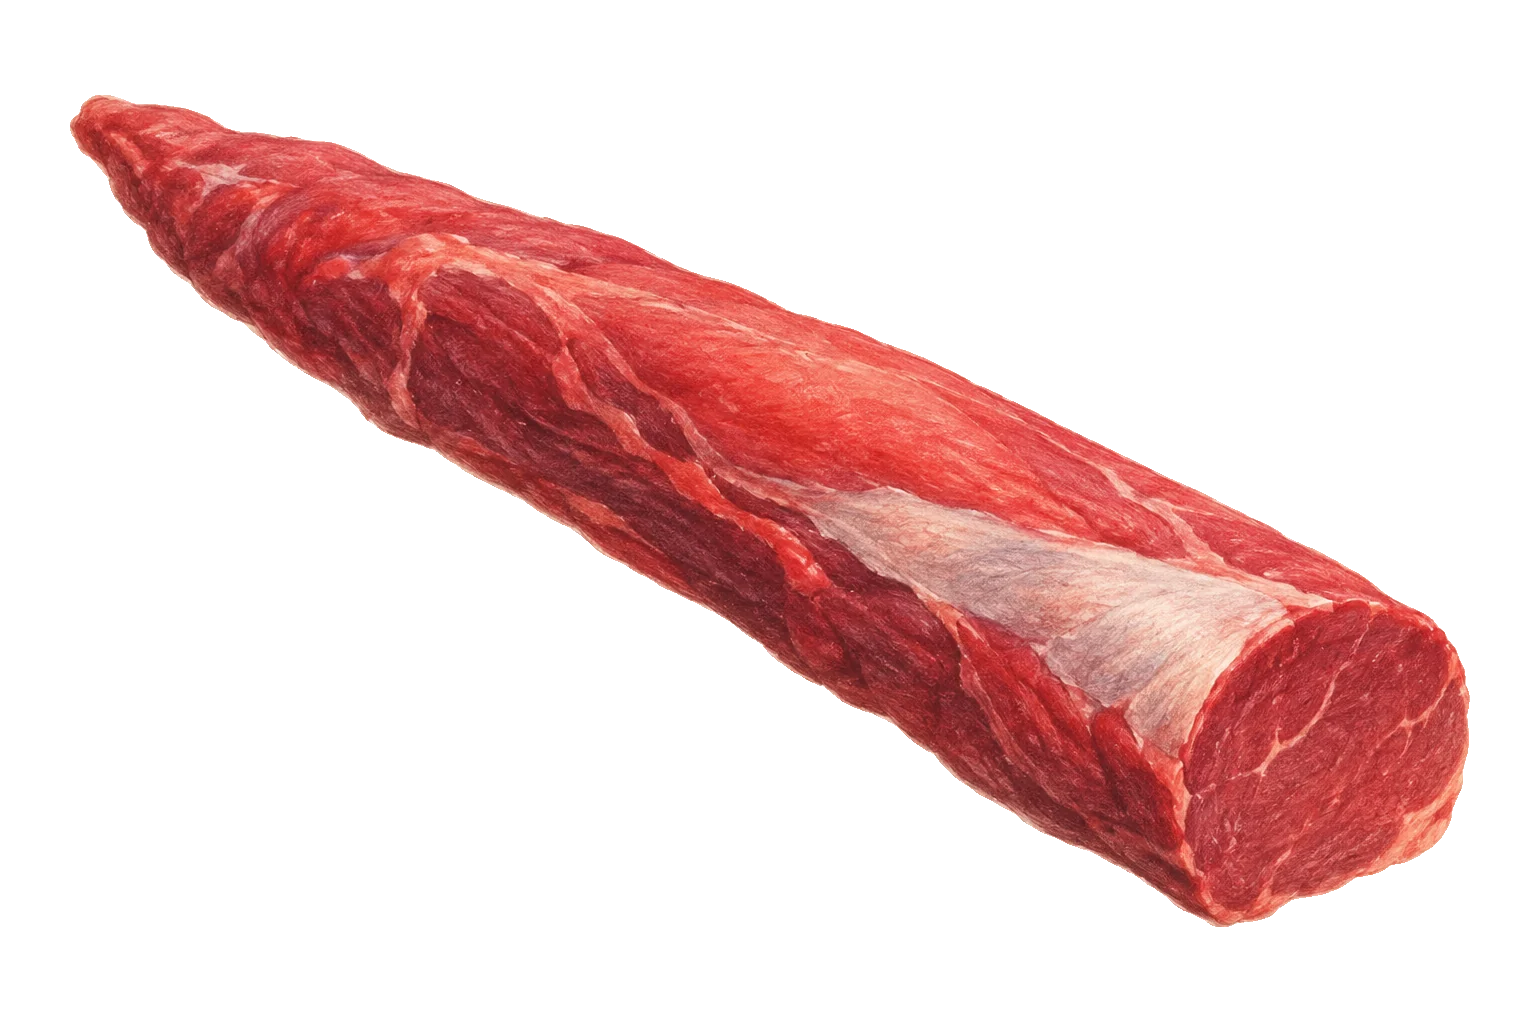
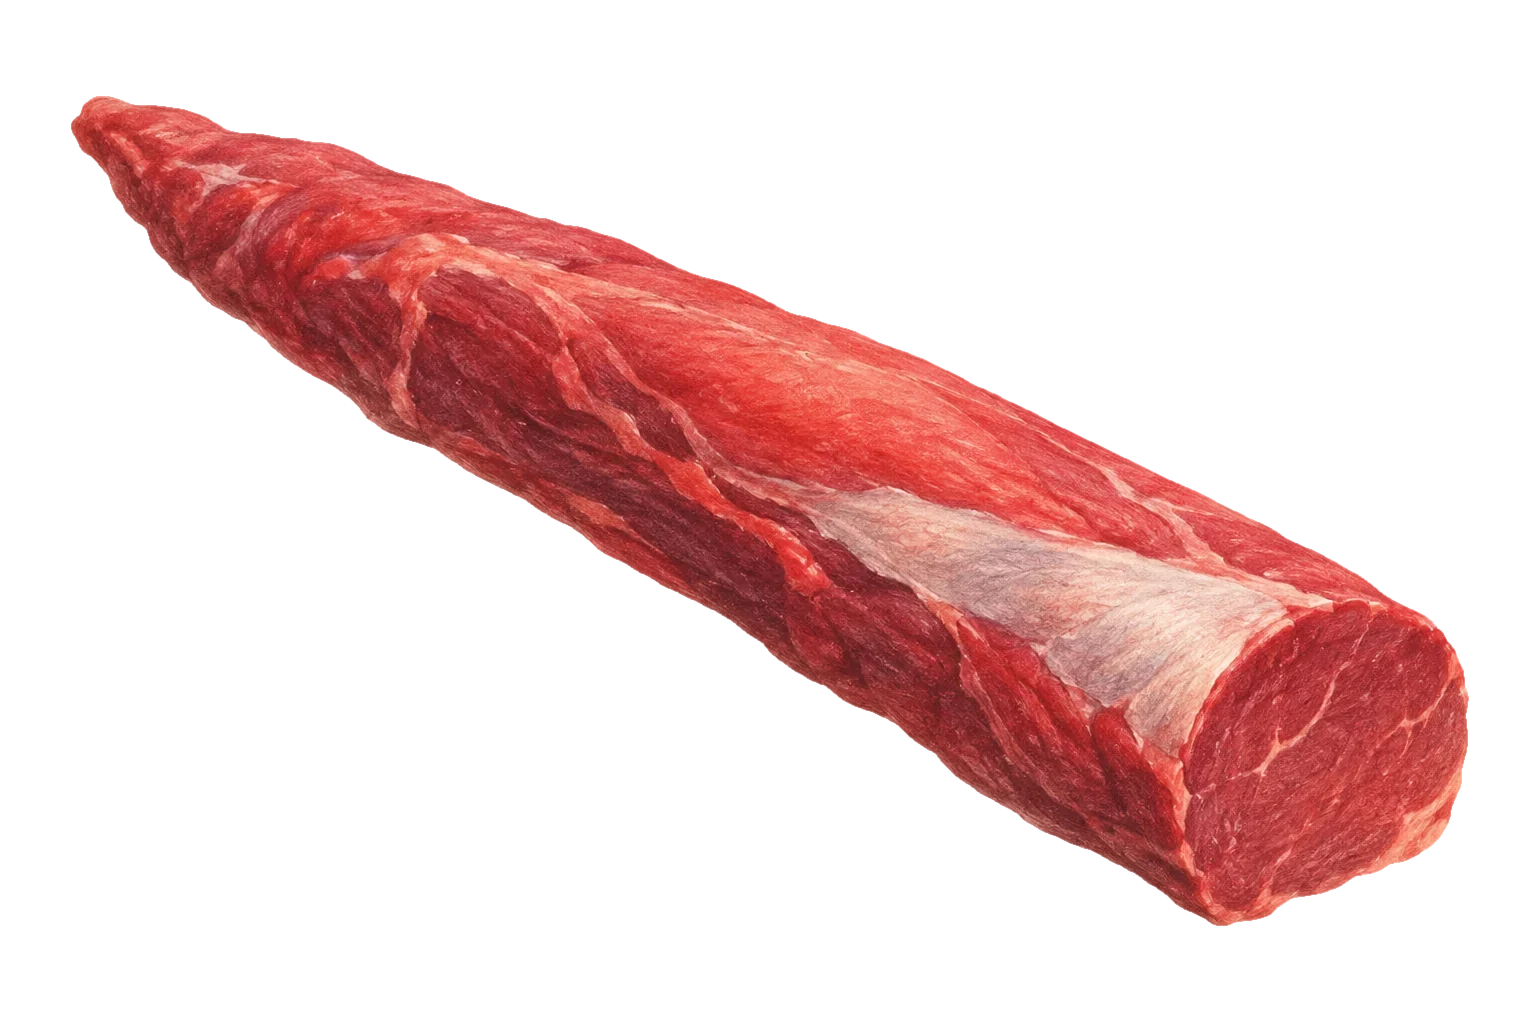
Hero cut-outs: remove the white background-removal fringe
tools/defringe-cutouts.py rebuilds the 8 hero cut-outs from untouched
originals kept in tools/cutouts-src/: edge pixels are re-coloured from the
piece's own interior, the hard alpha is trimmed ~1px and anti-aliased, and
transparent pixels carry edge colour so scaling never bleeds white. The same
files are used in Range, which gets the cleaner edges too.

Contact-shadow rim re-baked to the new edges, with the contour smoothed
sideways so edge jitter no longer shows as vertical streaks.

Claude-Session: https://claude.ai/code/session_01N851SR2USZLYHdGMc411em

Changed region(s): [[0.2812, 0.4375, 0.3125, 0.4688], [0.125, 0.2812, 0.1562, 0.3125]]

diff --git a/tools/defringe-cutouts.py b/tools/defringe-cutouts.py
@@ -1,0 +1,90 @@
+"""
+Remove the light halo that background removal left around the cut-outs.
+
+Reads the untouched originals from tools/cutouts-src/ and writes cleaned copies to public/img/:
+  1. Colour: pixels within a few px of the edge are re-coloured from the piece's own interior
+     (colours are grown outward from ~4px inside), strongest at the rim, fading inward.
+  2. Edge: the hard 0/255 alpha is pulled in by ~1px and given a soft anti-aliased edge, so the
+     last bright ring is gone and the piece sits on its contact shadow without a white outline.
+
+Run from the repo root:  python3 tools/defringe-cutouts.py   (needs numpy + Pillow)
+Then re-bake the hero shadows: python3 tools/bake-hero-shadows.py
+"""
+from pathlib import Path
+import numpy as np
+from PIL import Image, ImageFilter
+
+ROOT = Path(__file__).resolve().parent.parent
+SRC = ROOT / 'tools/cutouts-src'
+OUT = ROOT / 'public/img'
+
+FILES = ['lamb-rack', 'brisket', 't-bone', 'tenderloin', 'short-ribs', 'lemongrass', 'rosemary', 'peppercorns']
+# Re-colour weight by ring (1 = outermost px). Ring 1 is mostly cut away by the alpha trim anyway.
+RING_WEIGHT = [1.0, 0.85, 0.55, 0.25]
+CORE = len(RING_WEIGHT) + 1  # colours are trusted from this ring inward
+
+
+def erode(mask, k):
+    """Binary erosion by k px (square)."""
+    if k <= 0:
+        return mask
+    im = Image.fromarray((mask * 255).astype(np.uint8), 'L')
+    return np.asarray(im.filter(ImageFilter.MinFilter(2 * k + 1))) > 127
+
+
+def grow_colours(rgb, known, steps):
+    """Push known colours outward one px per step (3×3 average of known neighbours)."""
+    rgb = rgb.copy()
+    known = known.copy()
+    h, w = known.shape
+    for _ in range(steps):
+        acc = np.zeros_like(rgb)
+        cnt = np.zeros((h, w), np.float32)
+        for dy in (-1, 0, 1):
+            for dx in (-1, 0, 1):
+                k = np.roll(np.roll(known, dy, 0), dx, 1)
+                c = np.roll(np.roll(rgb, dy, 0), dx, 1)
+                acc += c * k[..., None]
+                cnt += k
+        new = (~known) & (cnt > 0)
+        rgb[new] = acc[new] / cnt[new][:, None]
+        known |= new
+    return rgb
+
+
+def defringe(name):
+    src = Image.open(SRC / f'{name}.webp').convert('RGBA')
+    a = np.asarray(src, np.float32)
+    rgb, mask = a[..., :3], a[..., 3] > 127
+
+    # Ring index of every opaque pixel (1 = outermost), capped at CORE.
+    ring = np.zeros(mask.shape, np.int32)
+    prev = mask
+    for k in range(1, CORE + 1):
+        inner = erode(mask, k)
+        ring[prev & ~inner] = k
+        prev = inner
+    ring[prev] = CORE + 1
+
+    core = ring > CORE
+    filled = grow_colours(np.where(core[..., None], rgb, 0), core, CORE + 6)
+
+    w = np.zeros(mask.shape, np.float32)
+    for i, wt in enumerate(RING_WEIGHT, start=1):
+        w[ring == i] = wt
+    out_rgb = rgb * (1 - w[..., None]) + filled * w[..., None]
+    out_rgb[~mask] = filled[~mask]  # transparent px carry edge colour too, so scaling never bleeds white
+
+    # Alpha: trim ~1px and anti-alias the new edge.
+    trimmed = Image.fromarray((erode(mask, 1) * 255).astype(np.uint8), 'L')
+    alpha = np.asarray(trimmed.filter(ImageFilter.GaussianBlur(0.8)), np.float32)
+    alpha = np.clip((alpha - 64) * (255 / 191), 0, 255)  # keep the core fully opaque, fade only the rim
+
+    out = np.dstack([np.clip(out_rgb, 0, 255), alpha]).astype(np.uint8)
+    Image.fromarray(out, 'RGBA').save(OUT / f'{name}.webp', 'WEBP', quality=86, method=6, exact=True)
+    print(f'{name:12s} ok')
+
+
+if __name__ == '__main__':
+    for f in FILES:
+        defringe(f)

diff --git a/tools/bake-hero-shadows.py b/tools/bake-hero-shadows.py
@@ -91,10 +91,14 @@ def bake(name, file, box, depth):
     cols = np.nonzero(bottom >= 0)[0]
     near_col = cols[np.abs(np.arange(W)[:, None] - cols[None, :]).argmin(axis=1)]
     floor = bottom[near_col]
-    below = np.clip((rows - (floor[None, :] - r(0.012, 1))) / r(0.025, 2), 0, 1)
+    # Smooth the contour sideways and soften the gate, or column-to-column jitter in the cut-out's
+    # edge shows up as vertical streaks in the rim.
+    k = max(3, int(r(0.02, 4)) | 1)
+    floor = np.convolve(np.pad(floor, k // 2, mode='edge'), np.ones(k) / k, mode='valid')
+    below = blur(np.clip((rows - (floor[None, :] - r(0.012, 1))) / r(0.025, 2), 0, 1), r(0.006, 1.5))
 
     # Contact: a thin dark occlusion under the contour, then a short falloff.
-    c1 = blur(shift(mask, r(0.004, 0.5), r(0.01, 1.2)), r(0.007, 1.2)) * 0.85 * below
+    c1 = blur(shift(mask, r(0.004, 0.5), r(0.01, 1.5)), r(0.009, 2.2)) * 0.85 * below
     c2 = blur(shift(foot, r(0.015, 1.5), r(0.03, 2.5)), r(0.025, 3)) * 0.5 * np.maximum(below, 0.35)
     contact = screen(c1, c2)
 
